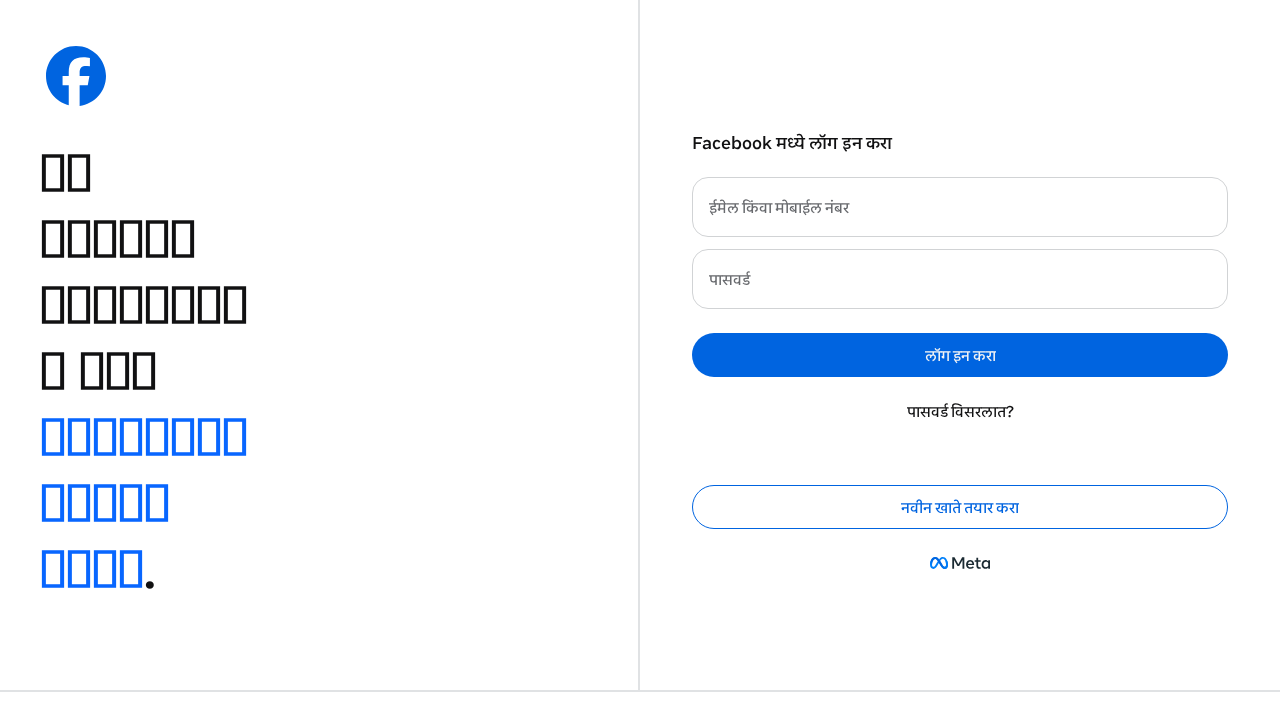
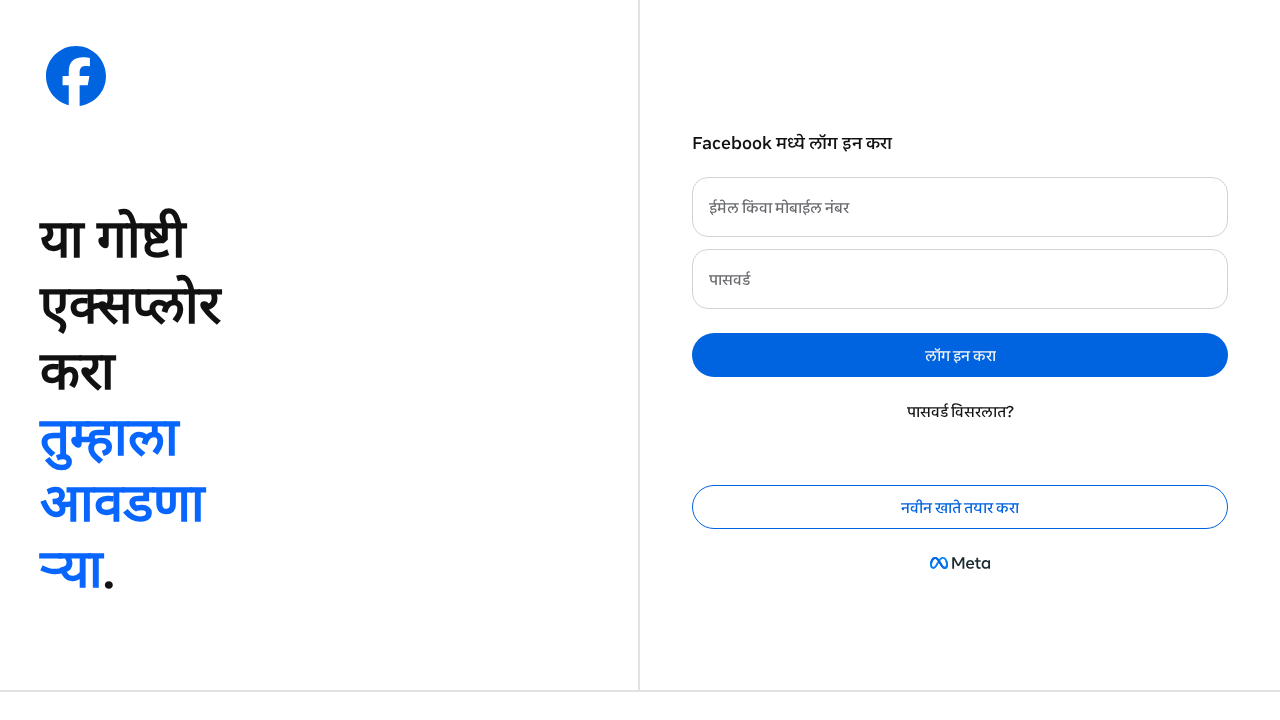
Re-capture the Facebook India example with the new fonts

diff --git a/frontend/src/main.tsx b/frontend/src/main.tsx
@@ -121,7 +121,7 @@ const EXAMPLES: Example[] = [
     videoFirst: ['germany', 'india'],
   },
   example('Yahoo', 'yahoo.com', '28 October 2026', [yahooUs, yahooBrazil, yahooGermany, yahooIndia], [1913, 3422, 2368, 2025], [yahooUsVideo, yahooBrazilVideo, yahooGermanyVideo, yahooIndiaVideo]),
-  example('Facebook', 'facebook.com', '28 October 2026', [facebookUs, facebookBrazil, facebookGermany, facebookIndia], [1042, 1159, 1011, 1127]),
+  example('Facebook', 'facebook.com', '28 October 2026', [facebookUs, facebookBrazil, facebookGermany, facebookIndia], [1042, 1159, 1011, 1497]),
 ];
 
 const POLL_INTERVAL_MS = 3000;
